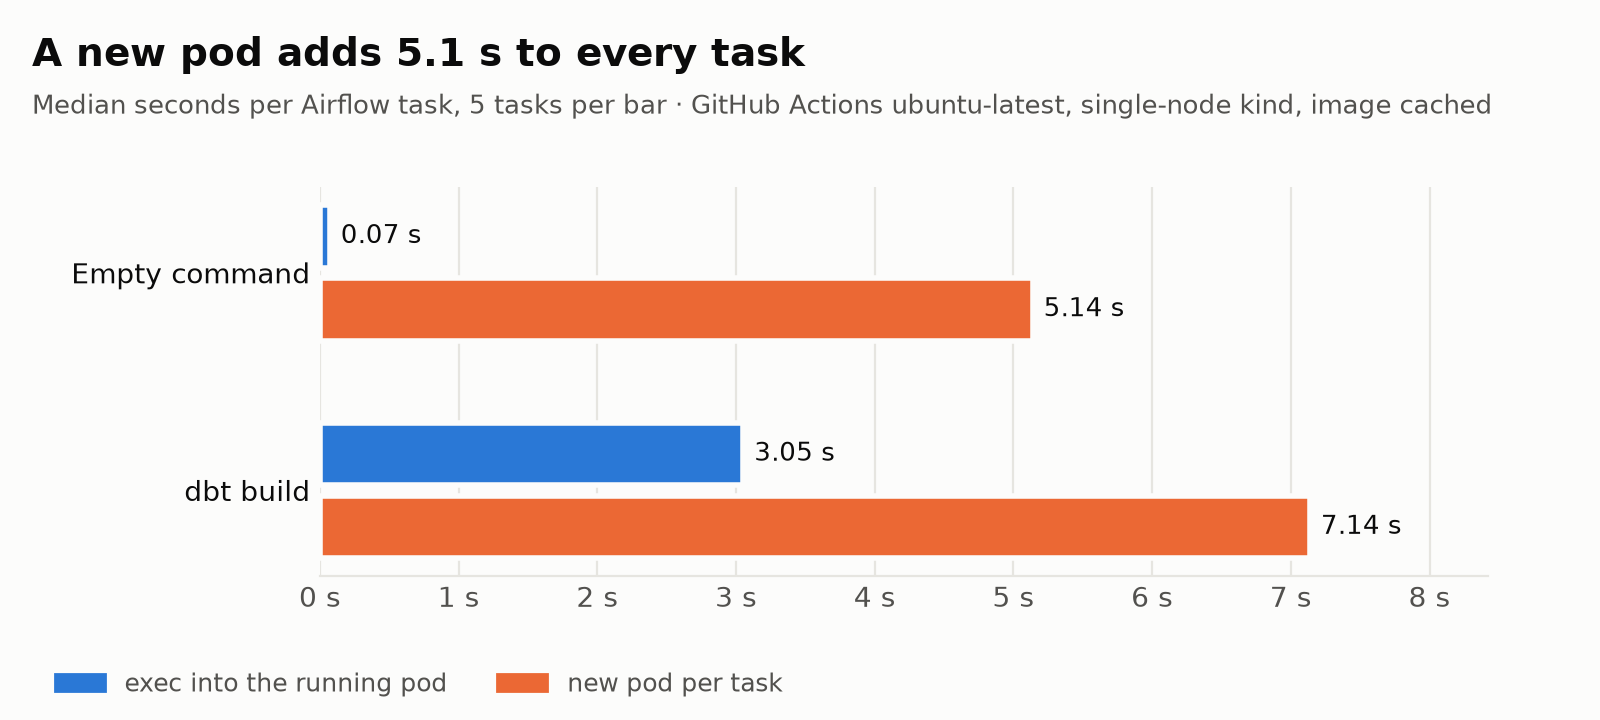
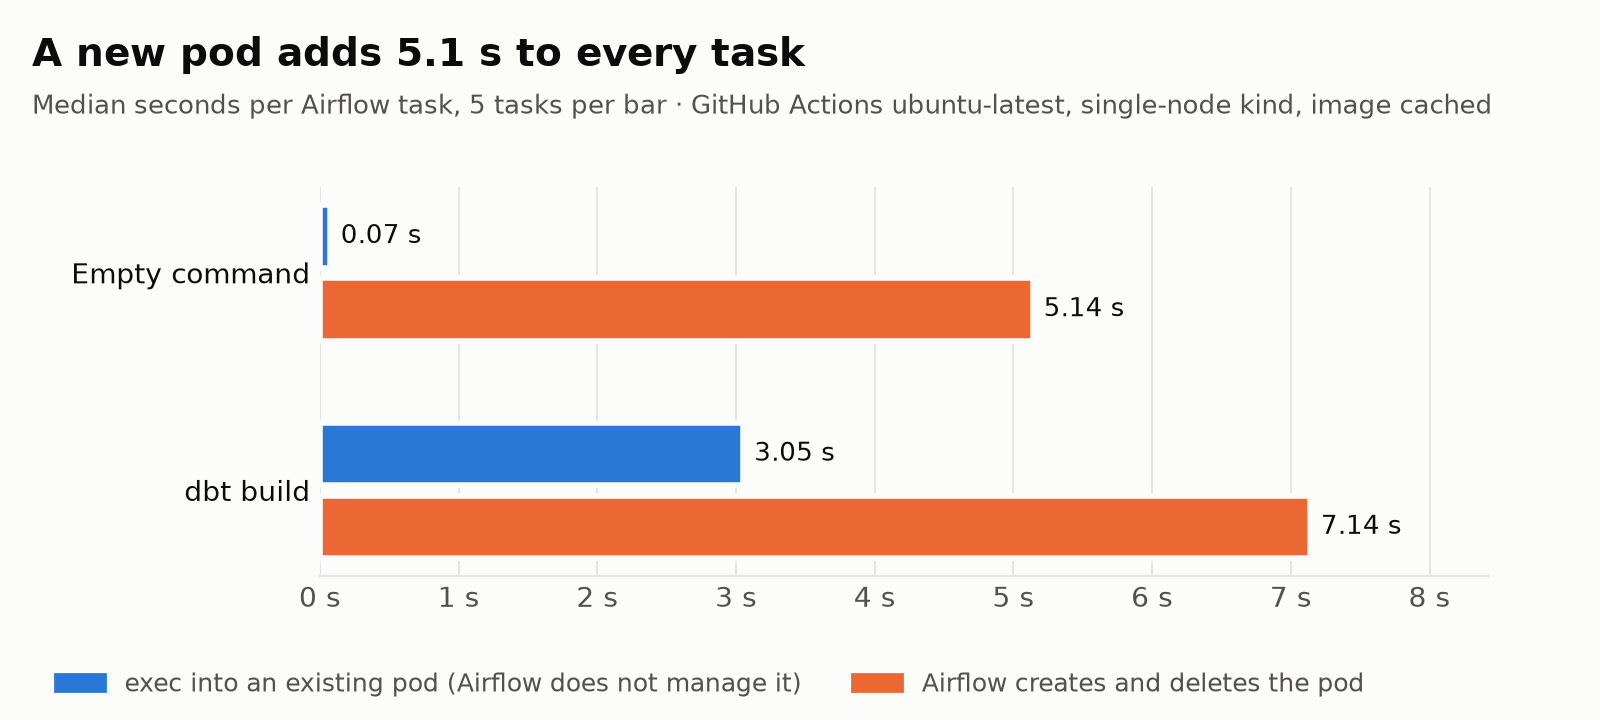
Add four-way chart and pod-ownership legend
- docs/img/cosmos_four_ways.png: hand-made exec, Cosmos KUBERNETES_EXEC,
  KUBERNETES and WATCHER_KUBERNETES through a real scheduler (CI run 44864465233)
- bench/plot.py: watcher variant, neutral headline for four variants, legend
  by who manages the pod; per_task.png re-rendered with that legend

Changed region(s): [[0.1562, 0.9167, 0.5, 0.9778], [0.5312, 0.9167, 0.8438, 0.9778]]

diff --git a/bench/plot.py b/bench/plot.py
@@ -53,7 +53,8 @@ def headline(fig, title: str, subtitle: str) -> None:
 def legend(fig) -> None:
     from matplotlib.patches import Patch
 
-    fig.legend(handles=[Patch(color=EXEC, label="exec into the running pod"), Patch(color=POD, label="new pod per task")],
+    fig.legend(handles=[Patch(color=EXEC, label="exec into an existing pod (Airflow does not manage it)"),
+                        Patch(color=POD, label="Airflow creates and deletes the pod")],
                loc="lower left", bbox_to_anchor=(0.02, 0.0), ncol=2, frameon=False, fontsize=9, labelcolor=TEXT_2)
 
 
@@ -91,9 +92,11 @@ def three_ways(compare: dict, out: Path, source: str) -> Path:
         ("One dbt build exec\n(hand-made, 4 tasks)", "duckdb_dbt_exec", EXEC),
         ("Cosmos KUBERNETES_EXEC\n(exec per dbt node, 8 tasks)", "cosmos_dbt_kubernetes_exec", EXEC),
         ("Cosmos KUBERNETES\n(new pod per dbt node, 8 tasks)", "cosmos_dbt_kubernetes", POD),
+        ("Cosmos WATCHER_KUBERNETES\n(1 new pod per run, 1 dbt build)", "cosmos_dbt_watcher_kubernetes", POD),
     ]
-    fig, ax = plt.subplots(figsize=(8, 3.8), dpi=200)
-    fig.subplots_adjust(left=0.31, right=0.93, top=0.74, bottom=0.19)
+    rows = [r for r in rows if r[1] in compare]  # the watcher only exists in scheduled comparisons
+    fig, ax = plt.subplots(figsize=(8, 2.6 + 0.6 * len(rows)), dpi=200)
+    fig.subplots_adjust(left=0.33, right=0.93, top=1 - 0.95 / (2.6 + 0.6 * len(rows)), bottom=0.7 / (2.6 + 0.6 * len(rows)))
     for i, (label, dag, color) in enumerate(rows):
         r = compare[dag]
         ax.barh(i, r["wall_p50_s"], height=0.55, color=color, edgecolor=SURFACE, linewidth=2)
@@ -105,10 +108,15 @@ def three_ways(compare: dict, out: Path, source: str) -> Path:
     frame(ax, max(compare[d]["wall_max_s"] for _, d, _ in rows) * 1.16)
     speedup = compare["cosmos_dbt_kubernetes"]["wall_p50_s"] / compare["cosmos_dbt_kubernetes_exec"]["wall_p50_s"]
     runs = compare["cosmos_dbt_kubernetes_exec"]["runs"]
-    headline(fig, f"Same dbt project: exec per node runs {speedup:.1f}× faster than a pod per node",
+    title = (
+        "Same dbt project, four ways, through a real scheduler"
+        if len(rows) == 4
+        else f"Same dbt project: exec per node runs {speedup:.1f}× faster than a pod per node"
+    )
+    headline(fig, title,
              f"Whole DAG run, median of {runs} (whiskers: fastest–slowest) · {source}")
     legend(fig)
-    path = out / "cosmos_three_ways.png"
+    path = out / ("cosmos_four_ways.png" if len(rows) == 4 else "cosmos_three_ways.png")
     fig.savefig(path)
     plt.close(fig)
     return path
@@ -119,11 +127,12 @@ def main() -> None:
     ap.add_argument("--latency", type=Path, required=True)
     ap.add_argument("--compare", type=Path, required=True)
     ap.add_argument("--source", default="GitHub Actions ubuntu-latest, single-node kind, image cached")
+    ap.add_argument("--compare-source", default=None, help="subtitle for the comparison chart, if different")
     ap.add_argument("--out", type=Path, default=Path("docs/img"))
     a = ap.parse_args()
     a.out.mkdir(parents=True, exist_ok=True)
     print(per_task(json.loads(a.latency.read_text()), a.out, a.source))
-    print(three_ways(json.loads(a.compare.read_text()), a.out, a.source))
+    print(three_ways(json.loads(a.compare.read_text()), a.out, a.compare_source or a.source))
 
 
 if __name__ == "__main__":
